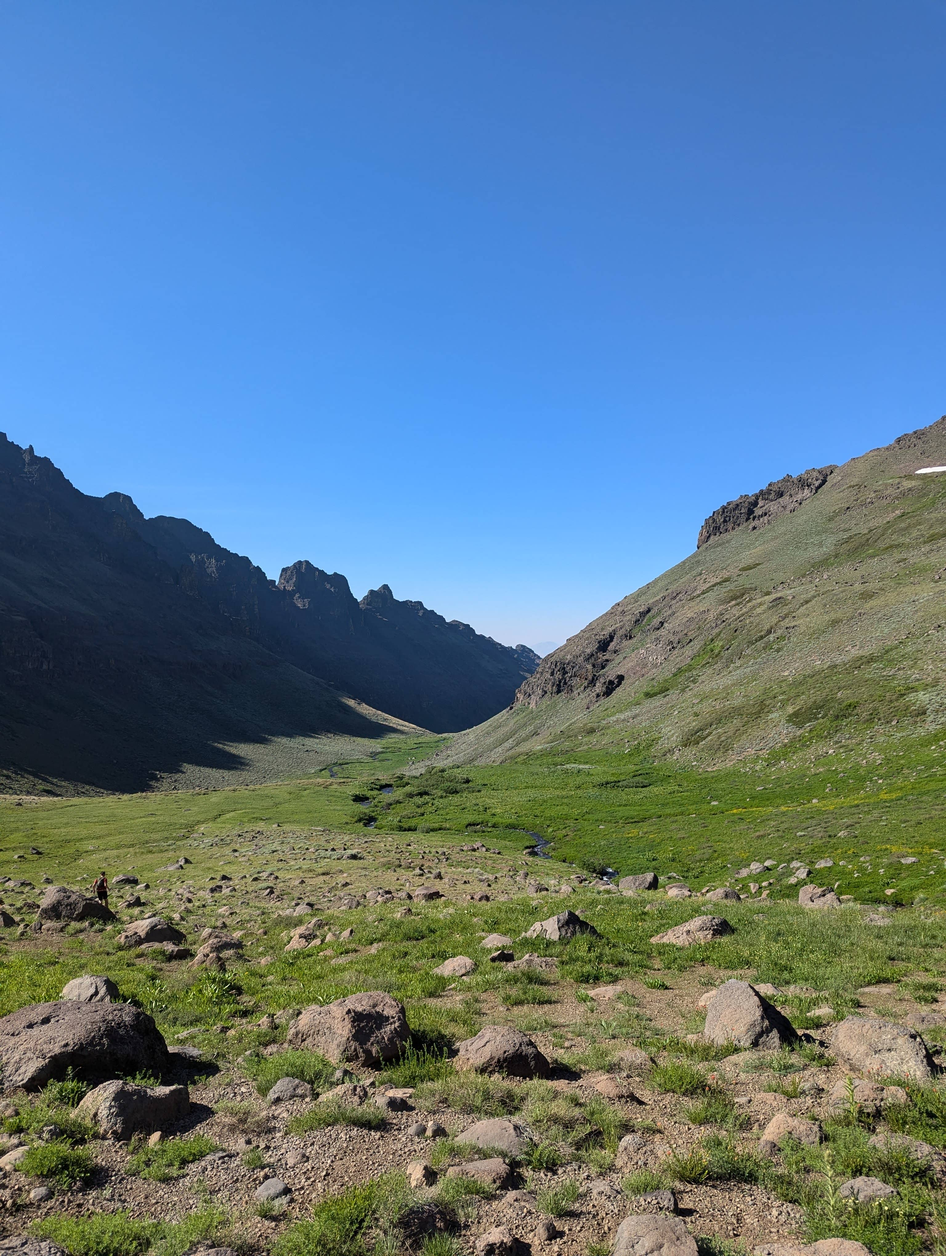
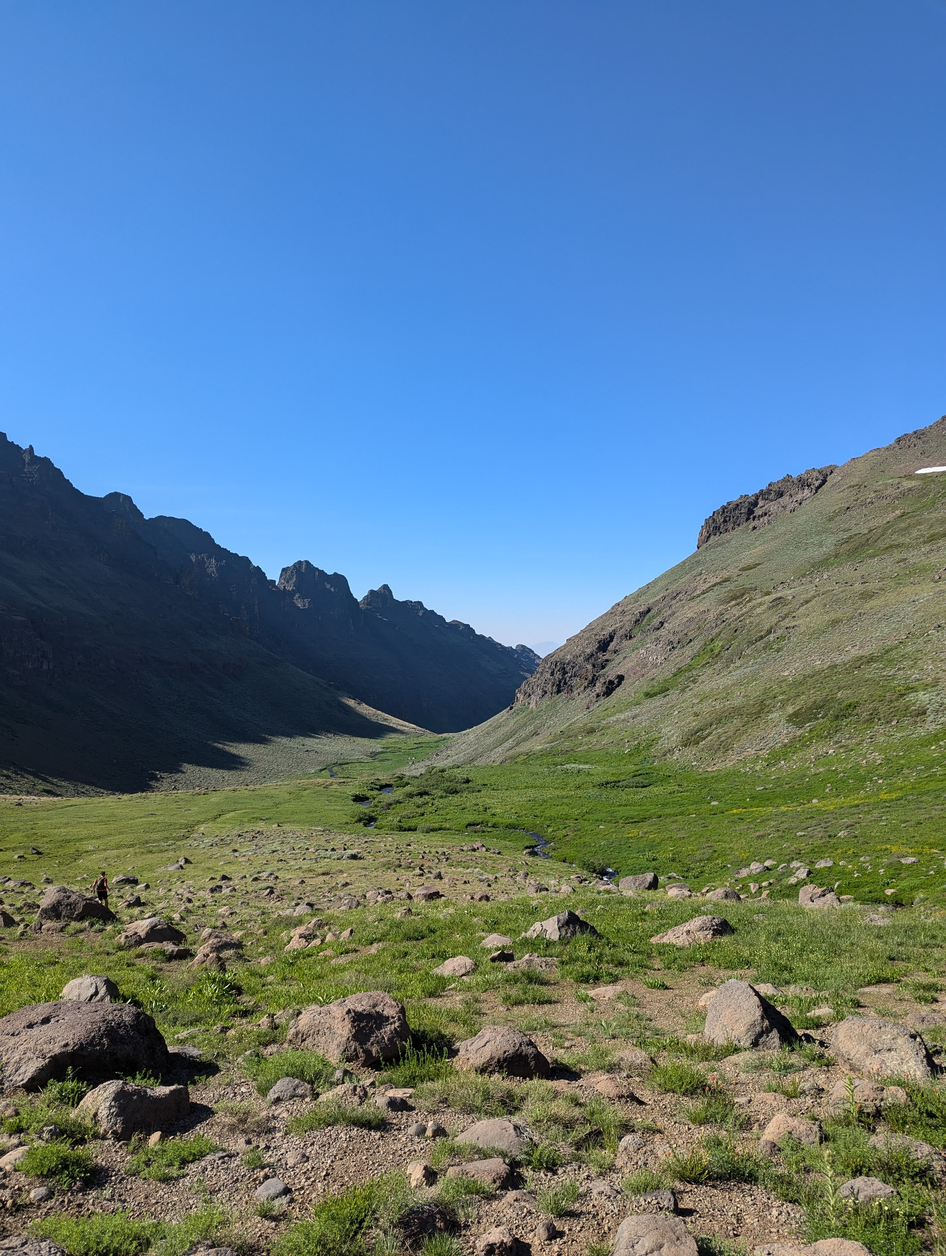
More img optimizing

diff --git a/components/places.tsx b/components/places.tsx
@@ -40,31 +40,31 @@ const PlacesPage = () => {
     {
       id: 1,
       title: "Steens Mountain",
-      image: "/img/steens.jpg",
+      image: "/img/steens.webp",
       description: "There’s a place where the air is thin, the trails are wild, and the mountains shape more than just the land. Steens isn’t just a fault-block in the Oregon desert; it’s a proving ground, a sanctuary, a place where the grit inside you is either found or forged.\n\nI remember cramming onto those yellow busses for the first time. Suffering thru trails that weren’t really trails at all—just lines in the dust where other runners had gone before. It was in this raw and untamed place that I learned what it meant to push past my limits, to embrace the struggle, and to trust that I will get my breath back, the climb will always be worth it.\n\nYears later, I am lucky to give back a fraction of what this mountain gave me. As a coach, I watch new campers trip on the same trails, wide-eyed and uncertain, the way I once did. They crawl out of their tents, their legs caked in dust that will never fully wash off, laugh around the campfire, cheer on one another, and realize—maybe for the first time—that they are stronger than they ever knew.\n\nNo website, no photo, no story can capture the magic of this place. The bitter early mornings, the way the dirt clings to everyone in the same unspoken camaraderie, the view from the Rims that makes you feel both infinite and impossibly small. But even more than the mountain itself, it’s the people who make it what it is. Every camper, every coach—each one a unique blend of grit and gratitude, brought together by a love of running but bonded by something far greater.\n\nSteens isn’t just a mountain. It’s a home for those who believe in the power of the struggle, the beauty of the unknown, and the kind of friendships that only form when you’ve suffered through something unforgettable together. And long after our legs have stopped climbing, the mountain stays with us—etched into who we are, a part of us forever."
     },
     {
       id: 2,
       title: "The PNW",
-      image: "/img/Bend.jpg",
+      image: "/img/Bend.webp",
       description: "It’s the mist that rises from the rivers, the towering peaks that greet the morning sun, and the endless forests that stretch my mind and my legs. It’s a part of me, woven into every memory, every adventure, every breath of fresh mountain air.\n\nThe mountains have always been my sanctuary, their jagged peaks standing tall and proud. Whether it’s a long, meandering trail or a quiet moment beside a river, the Pacific Northwest has always had a way of making me feel at home. There’s a peace here, in the solitude of the woods, the sound of rushing water, and the whisper of the wind through the evergreens. It’s the kind of peace that comes when you’re far enough from the world to forget its noise.\n\nAnd then there are the rivers—wild and untamed, watching the world unfold at their banks. Every bend feels like an invitation to explore, to discover something new about the land, and perhaps, something new about myself.\n\nThe beauty of the Pacific Northwest is in its endlessness—endless mountains, endless rivers, endless places to grow. It’s a place where adventure isn’t just a possibility, it’s a way of life. Whether it’s the thrill of a summit view, the quiet reflection by a riverside, or the simple joy of wandering through a dense forest, there’s always something new to discover, always another trail to follow, always a new adventure to chase."
     },
     {
       id: 3,
       title: "Moscow, ID",
-      image: "/img/Moscow.jpg",
+      image: "/img/Moscow.webp",
       description: "For those familiar, it’s more than a college town—it was a place where families were built over post-run breakfasts, where conversations stretched in every direction, and where, for a time, the world beyond the wheat fields didn’t matter. It was a town that tested me, shaped me, and became a part of me.\n\nI am forever grateful for the people I found and the memories we made—the late-night debates that stretched until morning, the spontaneous road trips down empty highways, and the quiet moments when everything just felt right.\n\nAnd then there was the running—the sweat shared with my teammates, the mornings when the outside world was frozen solid, forcing us into the Dome for lap after lap, mile after mile. We bonded over exhaustion, over our setbacks and our successes. We carried each other through injuries, bad races, and long travel trips. We ran together, we suffered together, and we thrived together.\n\nMoscow was more than a place—it was a feeling, a rhythm, a heartbeat. It was only four years of my life, but it felt like a lifetime that lasted only a moment. No matter how far I run, a part of me will remain on the Palouse.\n\nGo Vandals!"
     },
     {
       id: 4,
       title: "SEA",
-      image: "/img/Ha_Giang.jpg",
+      image: "/img/Ha_Giang.webp",
       description: "I stepped off the plane into a new world—the language was foreign, the faces unfamiliar, and I was on my own. I had to embrace the unknown, to live outside my comfort zone, to see what this world could offer.\n\nThe days that followed were a blur of new experiences, strange places, and unspoken connections. Every moment was an adventure in itself—each day bringing new stories, new challenges, and new discoveries. I learned to trust myself in ways I never thought possible. I learned that not knowing the next step didn’t mean I wasn’t moving forward—it meant I was living fully, completely present in each new experience.\n\nI learned to scuba dive and explored an underwater world I had only ever dreamed of. I wandered through remote villages in Vietnam, where the people, though they spoke a language I couldn’t understand, welcomed me with warmth and kindness. Every encounter, every smile, every word—broken or not—became a bridge connecting me to the heart of these countries.\n\nI got dangerously ill from some questionable street food—another opportunity for new, unglamorous stories. Yet even in my worst moments, struggling to do even the most basic necessities, I found a way. I learned to trust that no matter what, I could handle it.\n\nSEA taught me to take those first steps, even when you’re terrified. And as I left, I knew that part of me would forever remain in those distant lands, in the smiles of strangers and the stories of adventure that I’d carry with me forever."
     },
     {
       id: 5,
       title: "Flagstaff, AZ",
-      image: "/img/Flagstaff.jpg",
+      image: "/img/Flagstaff.webp",
       description: "We were a small group of post-college kids, broke but hungry, trying to make it work. Flagstaff called to us—altitude training at one of the best spots for endurance athletes—and the opportunity was too good to pass up. The guys I was with were in a different league—fitter, stronger, ready to attack the mountain air. I wasn’t in the same shape, but I had no choice but to hop on the train and pray I could keep up.\n\nFrom the jump, every workout kicked me around. Each rep slower than I’d run in recent memory, and more painful than I ever imagined. But that’s what Flagstaff does—it tests you, challenges you, and forces you to face what you’re really made of.\n\nThe trails were something else. I wanted to explore all of them—the rugged paths, the dirt roads that stretched into the pines, each one feeling like an invitation to discover something new. The high altitude made it tough, but it also made everything more beautiful. There was something special about running up a mountain, barely breathing, surrounded by scenery that made you forget how hard you were working.\n\nThere was a bond in that shared struggle, a quiet understanding that no one else would get. We worked hard in the mornings, sometimes in the afternoons too, pushing ourselves to the limit. And when the day was done, we celebrated the grind, the struggle, and the victories that felt far too small in the moment but meant everything in the end.\n\nBy the time I left, I came home in the best shape of my life—even if it didn’t feel like it at 7,000 feet. The altitude had kicked my ass, but it also made me stronger than I’d ever been before. Flagstaff taught me about resilience, about embracing the grind, and about finding strength in the struggle."
     }
   ];

diff --git a/components/projects.tsx b/components/projects.tsx
@@ -107,11 +107,11 @@ const ProjectsPage = () => {
 
       {/* Main Content */}
       <div className="max-w-6xl mx-auto px-4 pt-24">
-        <h1 className="text-4xl font-bold mb-8">My Projects</h1>
+        <h1 className="text-4xl font-bold mb-8">My Projects -This part is not done yet</h1>
         
         {/* Filters Section */}
         <div className="mb-8">
-          <h2 className="text-xl mb-4 text-[#8DB7F5]">Filter by Technology</h2>
+          <h2 className="text-xl mb-4 text-[#8DB7F5]">Filter by Technology Filler Projects</h2>
           <div className="flex flex-wrap gap-2">
             <button
               className={`px-4 py-2 rounded-full border transition-colors ${
